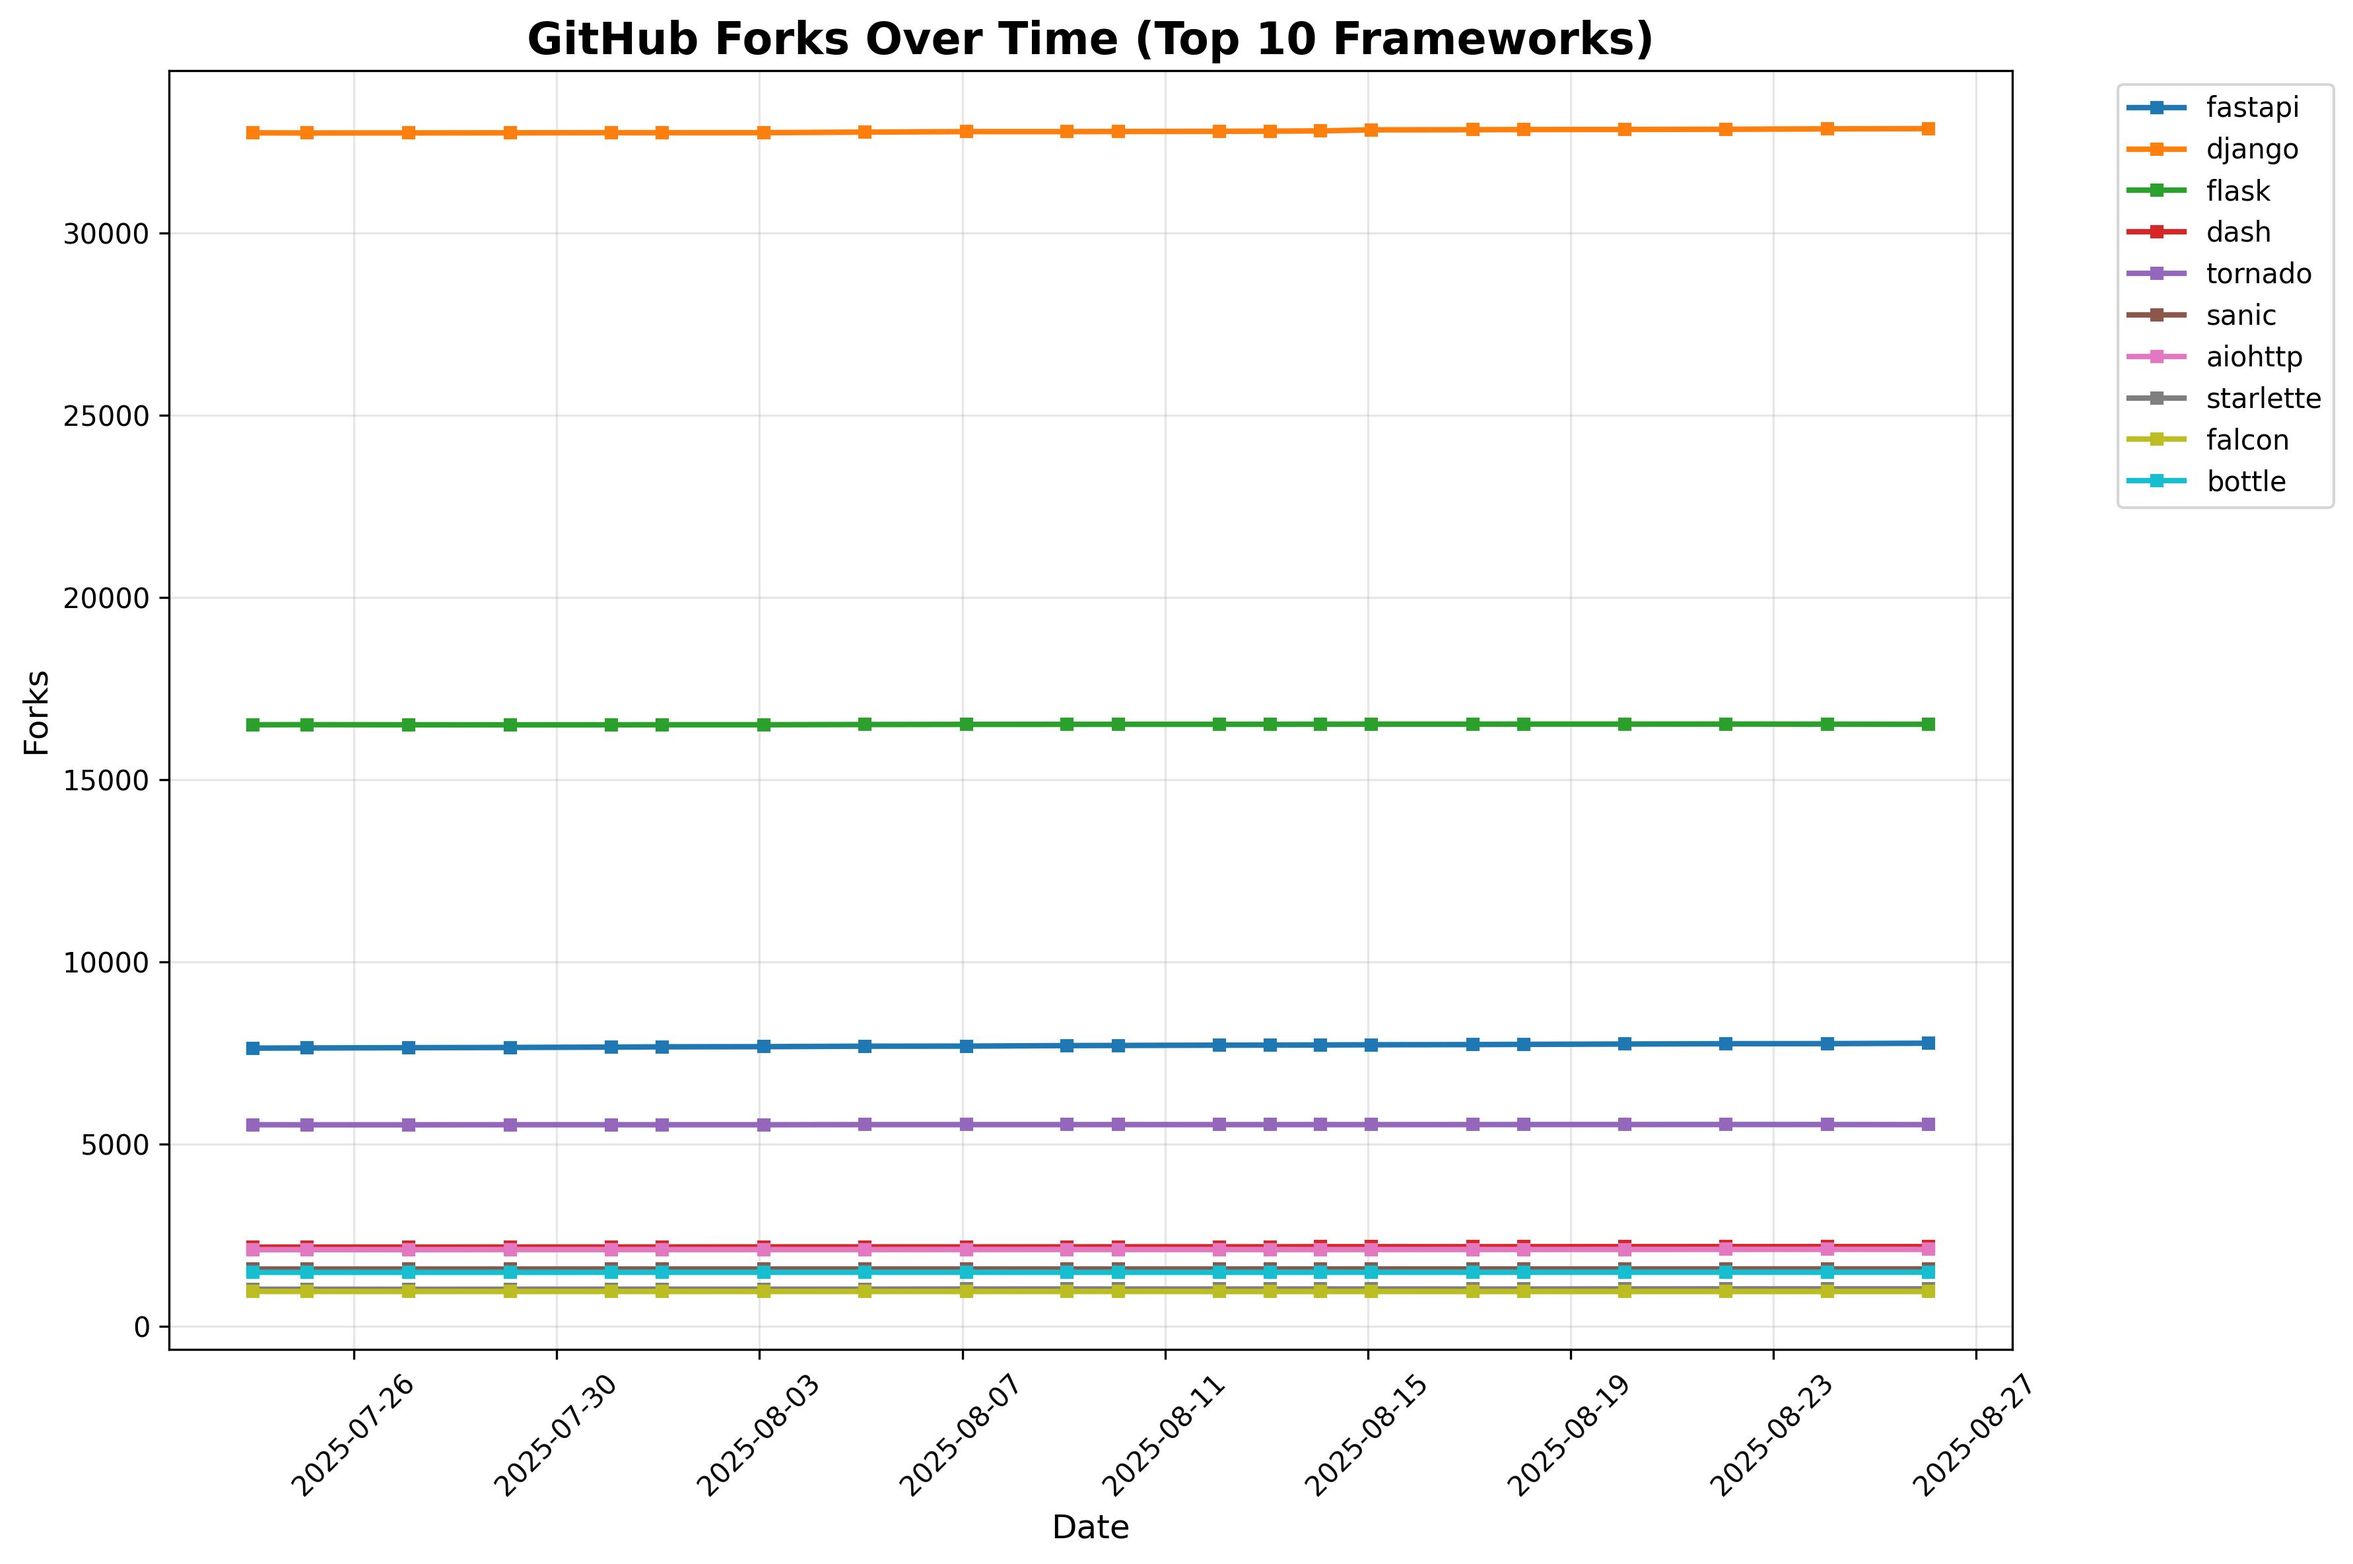
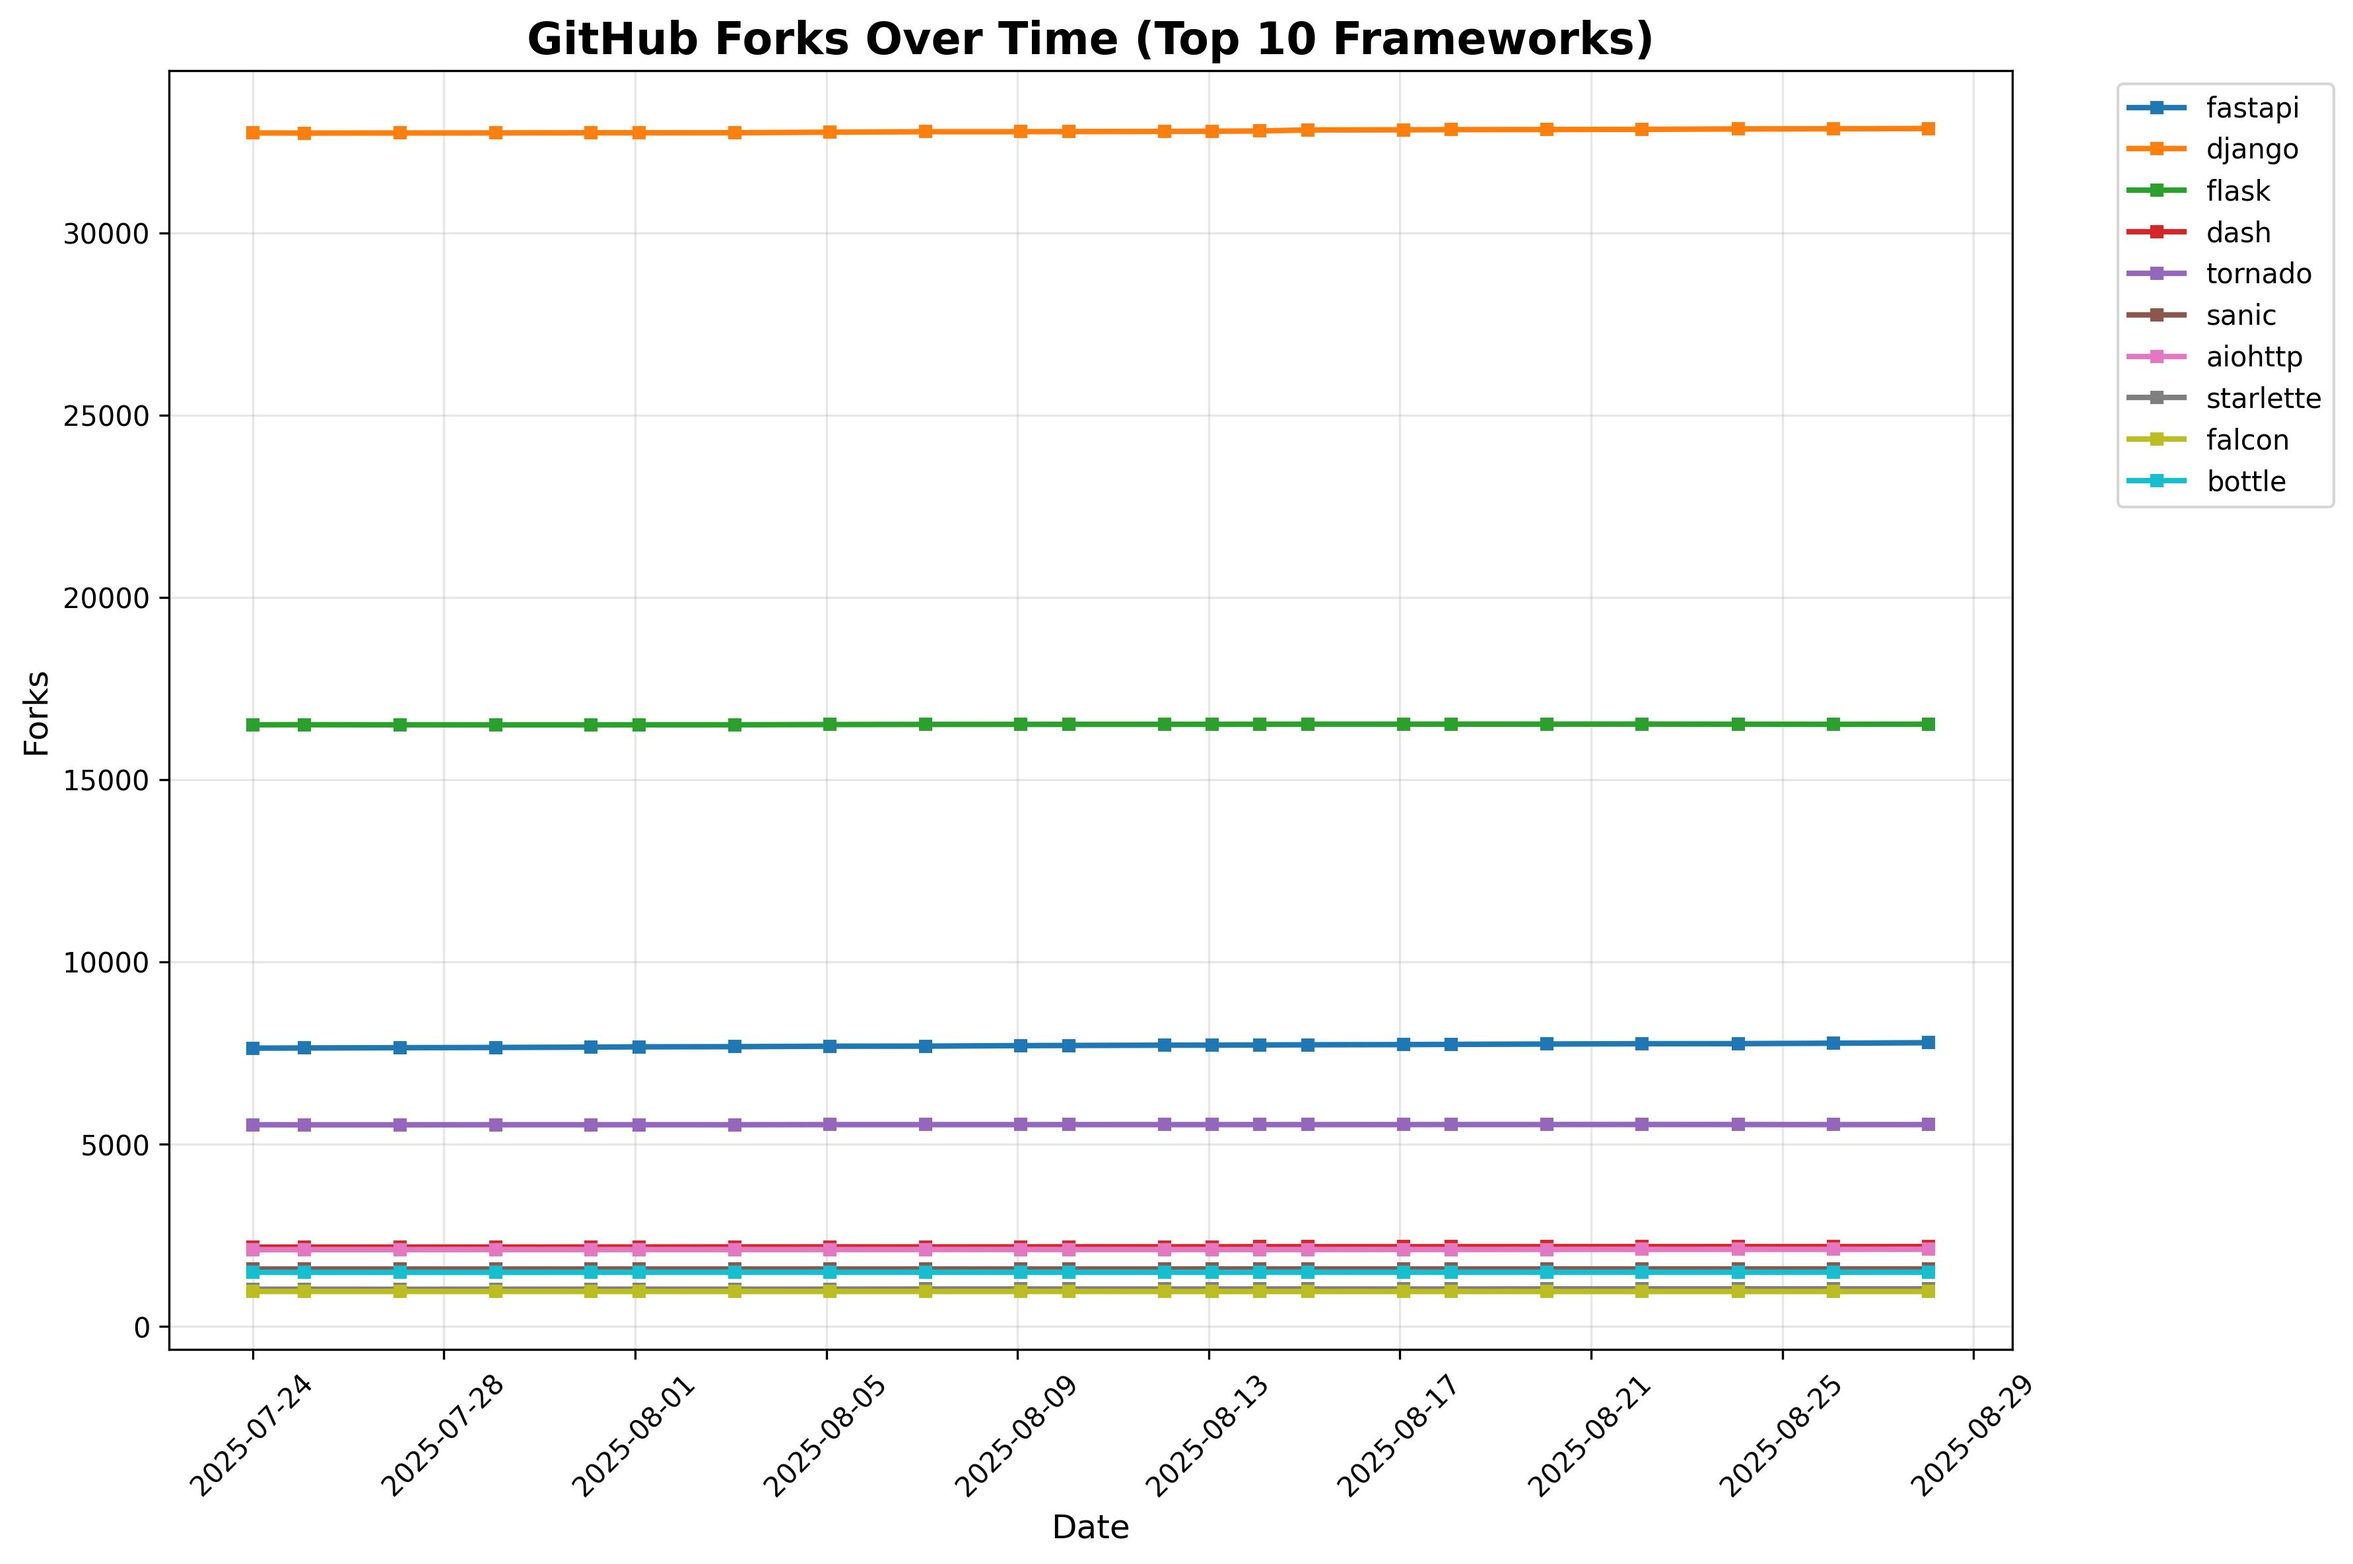
Update framework stars - 2025-08-28 01:25:56 UTC

diff --git a/README.md b/README.md
@@ -7,23 +7,23 @@ A list of popular github projects related to Python web framework (ranked by sta
 
 | Project Name | Stars | Forks | Open Issues | Last Commit |
 | ------------ | ----- | ----- | ----------- | ----------- |
-| [fastapi](https://github.com/fastapi/fastapi) | 88771 | 7770 | 281 | 2025-08-25 20:03:24 |
-| [django](https://github.com/django/django) | 84769 | 32854 | 365 | 2025-08-25 13:51:10 |
-| [flask](https://github.com/pallets/flask) | 70221 | 16518 | 4 | 2025-08-19 21:09:56 |
-| [dash](https://github.com/plotly/dash) | 23976 | 2190 | 552 | 2025-08-22 14:58:53 |
-| [tornado](https://github.com/tornadoweb/tornado) | 22111 | 5537 | 206 | 2025-08-21 14:14:13 |
-| [sanic](https://github.com/sanic-org/sanic) | 18485 | 1579 | 143 | 2025-03-31 21:19:26 |
-| [aiohttp](https://github.com/aio-libs/aiohttp) | 15939 | 2114 | 264 | 2025-08-24 17:19:33 |
-| [starlette](https://github.com/encode/starlette) | 11377 | 1032 | 49 | 2025-08-24 07:06:35 |
-| [falcon](https://github.com/falconry/falcon) | 9704 | 959 | 156 | 2025-08-24 13:51:01 |
-| [bottle](https://github.com/bottlepy/bottle) | 8649 | 1488 | 284 | 2025-06-27 10:14:03 |
-| [hug](https://github.com/hugapi/hug) | 6892 | 389 | 186 | 2023-06-30 13:14:01 |
-| [eve](https://github.com/pyeve/eve) | 6728 | 746 | 29 | 2025-06-03 13:00:09 |
+| [fastapi](https://github.com/fastapi/fastapi) | 88859 | 7784 | 283 | 2025-08-25 20:03:24 |
+| [django](https://github.com/django/django) | 84798 | 32861 | 361 | 2025-08-27 22:23:42 |
+| [flask](https://github.com/pallets/flask) | 70228 | 16522 | 4 | 2025-08-19 21:09:56 |
+| [dash](https://github.com/plotly/dash) | 23979 | 2192 | 554 | 2025-08-26 14:44:45 |
+| [tornado](https://github.com/tornadoweb/tornado) | 22118 | 5538 | 206 | 2025-08-21 14:14:13 |
+| [sanic](https://github.com/sanic-org/sanic) | 18483 | 1579 | 143 | 2025-03-31 21:19:26 |
+| [aiohttp](https://github.com/aio-libs/aiohttp) | 15946 | 2117 | 265 | 2025-08-27 19:03:35 |
+| [starlette](https://github.com/encode/starlette) | 11389 | 1032 | 49 | 2025-08-24 07:06:35 |
+| [falcon](https://github.com/falconry/falcon) | 9708 | 959 | 156 | 2025-08-27 21:26:23 |
+| [bottle](https://github.com/bottlepy/bottle) | 8651 | 1488 | 284 | 2025-06-27 10:14:03 |
+| [hug](https://github.com/hugapi/hug) | 6892 | 388 | 186 | 2023-06-30 13:14:01 |
+| [eve](https://github.com/pyeve/eve) | 6728 | 746 | 30 | 2025-08-26 14:11:54 |
 | [vibora](https://github.com/vibora-io/vibora) | 5635 | 301 | 140 | 2019-02-11 10:54:12 |
 | [pyramid](https://github.com/Pylons/pyramid) | 4042 | 891 | 88 | 2024-12-20 23:21:35 |
-| [quart](https://github.com/pallets/quart) | 3411 | 185 | 62 | 2025-08-14 14:23:09 |
+| [quart](https://github.com/pallets/quart) | 3419 | 185 | 62 | 2025-08-14 14:23:09 |
 | [masonite](https://github.com/MasoniteFramework/masonite) | 2302 | 130 | 20 | 2025-03-20 20:11:49 |
-| [web2py](https://github.com/web2py/web2py) | 2155 | 907 | 369 | 2025-07-14 00:48:47 |
+| [web2py](https://github.com/web2py/web2py) | 2155 | 908 | 369 | 2025-07-14 00:48:47 |
 | [cherrypy](https://github.com/cherrypy/cherrypy) | 1921 | 369 | 261 | 2025-07-04 16:22:41 |
 | [tg2](https://github.com/TurboGears/tg2) | 811 | 80 | 15 | 2025-02-18 22:52:59 |
 | [Growler](https://github.com/pyGrowler/Growler) | 688 | 21 | 5 | 2020-03-08 07:51:41 |
@@ -41,4 +41,4 @@ A list of popular github projects related to Python web framework (ranked by sta
 *Charts show the top 10 frameworks by current star count*
 
 
-*Last Automatic Update: 2025-08-26T01:37:13*
+*Last Automatic Update: 2025-08-28T01:25:52*
